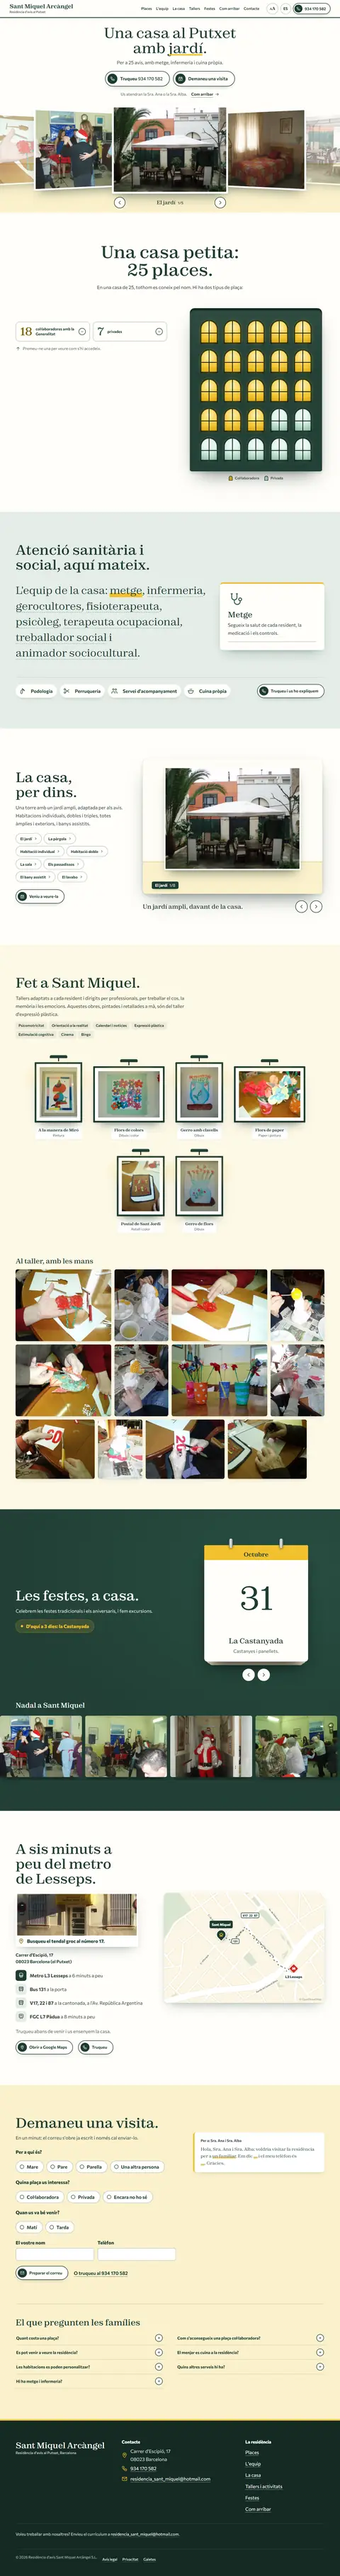
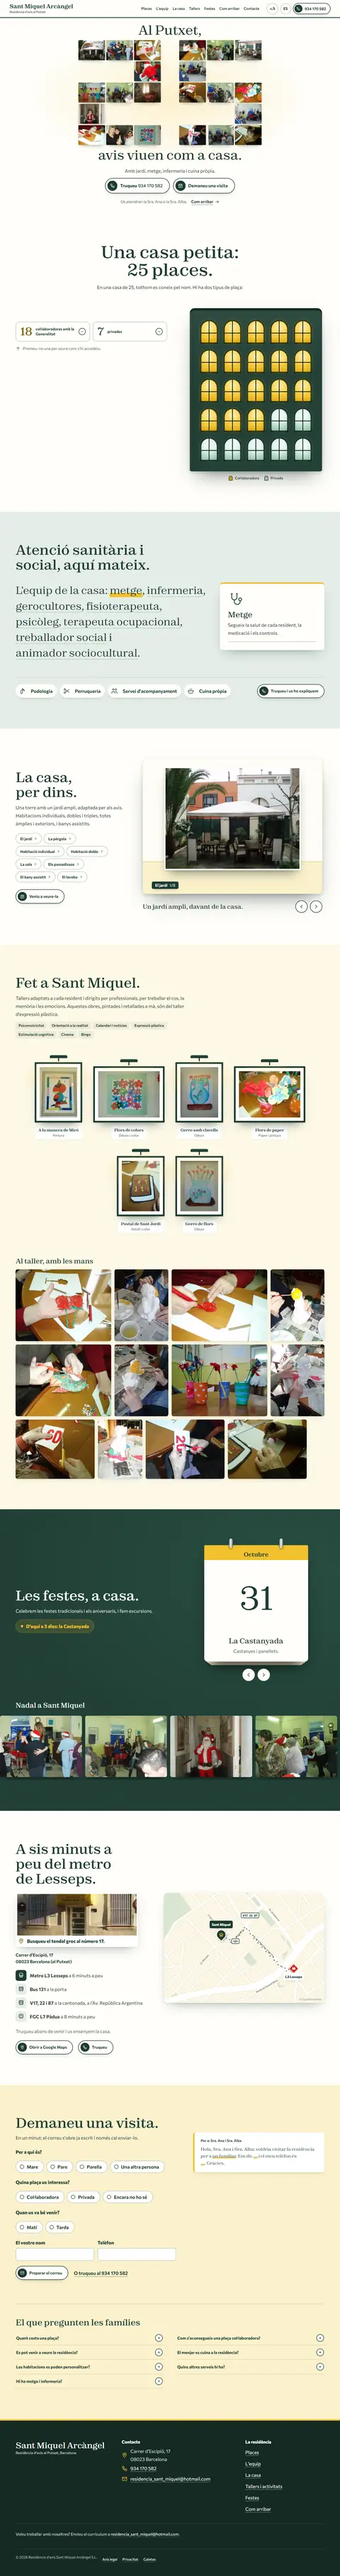
feat: ronda 4: hero «el 25 de la casa», escrito con 22 fotos de su vida
«En el Putxet, 25 mayores viven como en casa.» El 25 se escribe al cargar con
22 fotos reales (jardín, habitación, talleres, Navidad) que aterrizan en el orden
del trazo; luego se dan la vuelta de una en una para enseñar sus cuidados; lupa al
pasar el cursor y visor al pulsar. Sustituye al carrusel.

Changed region(s): [[0.0, 0.0, 1.0, 0.0932]]

diff --git a/prototype/index.html b/prototype/index.html
@@ -57,11 +57,10 @@
 </script>
 <link rel="preload" href="assets/fonts/zodiak.woff2" as="font" type="font/woff2" crossorigin>
 <link rel="preload" href="assets/fonts/commissioner.woff2" as="font" type="font/woff2" crossorigin>
-<link rel="preload" as="image" href="assets/img/jardin-960.webp" imagesrcset="assets/img/jardin-640.webp 640w, assets/img/jardin-960.webp 960w, assets/img/jardin-1280.webp 1280w, assets/img/jardin-1600.webp 1600w" imagesizes="(min-width: 600px) 46vw, 84vw" fetchpriority="high">
-<link rel="stylesheet" href="assets/css/base.css?v=3">
-<link rel="stylesheet" href="assets/css/home.css?v=3">
-<script src="assets/js/base.js?v=3" defer></script>
-<script src="assets/js/home.js?v=3" defer></script>
+<link rel="stylesheet" href="assets/css/base.css?v=4">
+<link rel="stylesheet" href="assets/css/home.css?v=4">
+<script src="assets/js/base.js?v=4" defer></script>
+<script src="assets/js/home.js?v=4" defer></script>
 <script type="application/ld+json">
 {
   "@context": "https://schema.org",
@@ -173,37 +172,46 @@
 
 <main id="contingut">
 
-  <!-- 1 · HERO: el titular con la palabra que cambia y la casa en un carrusel de fotos colgadas en la pared de sus salas -->
+  <!-- 1 · HERO: el «25» de la casa, escrito con 22 fotos de su vida, que se dan la vuelta para enseñar sus cuidados -->
   <section class="hero" id="inici" data-hero aria-labelledby="hero-titol">
-    <div class="hero__text">
-      <h1 class="hero__titol" id="hero-titol">
-        <span class="sr" lang="ca">Residència d'avis Sant Miquel Arcàngel: una casa al Putxet amb jardí, habitacions exteriors, pèrgola, tallers i festes.</span><span class="sr" lang="es">Residencia de mayores Sant Miquel Arcàngel: una casa en el Putxet con jardín, habitaciones exteriores, pérgola, talleres y fiestas.</span>
-        <span class="titol__fix" aria-hidden="true"><span lang="ca">Una casa al Putxet</span><span lang="es">Una casa en el Putxet</span></span>
-        <span class="titol__roda" aria-hidden="true"><span lang="ca">amb</span><span lang="es">con</span> <span class="roda" data-roda><span class="roda__p ara"><span lang="ca">jardí.</span><span lang="es">jardín.</span></span></span></span>
-      </h1>
-      <p class="hero__entrada"><span lang="ca">Per a 25 avis, amb metge, infermeria i cuina pròpia.</span><span lang="es">Para 25 mayores, con médico, enfermería y cocina propia.</span></p>
+    <h1 class="hero__titol" id="hero-titol">
+      <span class="sr" lang="ca">Residència d'avis Sant Miquel Arcàngel: al Putxet, 25 avis viuen com a casa.</span><span class="sr" lang="es">Residencia de mayores Sant Miquel Arcàngel: en el Putxet, 25 mayores viven como en casa.</span>
+      <span class="titol__a" aria-hidden="true"><span lang="ca">Al Putxet,</span><span lang="es">En el Putxet,</span></span>
+      <span class="vint-i-cinc" aria-hidden="true" data-vint-i-cinc>
+        <span class="vint-i-cinc__xifra">
+          <span class="tessela" style="--c:1;--f:1;--o:0;--dx:0.3;--dy:4.9;--rot:-3deg" data-visor-grup="hero"><span class="tessela__zoom"><span class="tessela__gir"><img data-foto src="assets/img/jardin-320.webp" srcset="assets/img/jardin-160.webp 160w, assets/img/jardin-320.webp 320w, assets/img/jardin-640.webp 640w, assets/img/jardin-1600.webp 1600w" sizes="(min-width: 600px) 14vw, 16vw" width="1280" height="960" alt="El jardí de la residència: una pèrgola blanca amb taules i butaques de fusta, una palmera i plantes, davant de la casa" data-alt-es="El jardín de la residencia: una pérgola blanca con mesas y butacas de madera, una palmera y plantas, delante de la casa"><span class="tessela__dors"><svg class="icona"><use href="#i-metge"/></svg><span lang="ca">Metge</span><span lang="es">Médico</span></span></span></span></span>
+          <span class="tessela" style="--c:2;--f:1;--o:1;--dx:-4.6;--dy:2.8;--rot:-37deg" data-visor-grup="hero"><span class="tessela__zoom"><span class="tessela__gir"><img data-foto src="assets/img/navidad-baile-320.webp" srcset="assets/img/navidad-baile-160.webp 160w, assets/img/navidad-baile-320.webp 320w, assets/img/navidad-baile-480.webp 480w, assets/img/navidad-baile-800.webp 800w" sizes="(min-width: 600px) 14vw, 16vw" width="800" height="600" alt="Residents i treballadores ballen a la festa de Nadal, amb barrets de Pare Noel" data-alt-es="Residentes y trabajadoras bailan en la fiesta de Navidad, con gorros de Papá Noel"><span class="tessela__dors"><svg class="icona"><use href="#i-infermeria"/></svg><span lang="ca">Infermeria</span><span lang="es">Enfermería</span></span></span></span></span>
+          <span class="tessela" style="--c:3;--f:1;--o:2;--dx:-3.5;--dy:3.1;--rot:24deg" data-visor-grup="hero"><span class="tessela__zoom"><span class="tessela__gir"><img data-foto src="assets/img/taller-rosas-320.webp" srcset="assets/img/taller-rosas-160.webp 160w, assets/img/taller-rosas-320.webp 320w, assets/img/taller-rosas-480.webp 480w, assets/img/taller-rosas-800.webp 800w" sizes="(min-width: 600px) 14vw, 16vw" width="800" height="600" alt="Unes mans sostenen dues roses de paper vermelles acabades de pintar" data-alt-es="Unas manos sostienen dos rosas de papel rojas recién pintadas"><span class="tessela__dors"><svg class="icona"><use href="#i-to"/></svg><span lang="ca">Tallers</span><span lang="es">Talleres</span></span></span></span></span>
+          <span class="tessela" style="--c:3;--f:2;--o:3;--dx:4.2;--dy:2.8;--rot:30deg" data-visor-grup="hero"><span class="tessela__zoom"><span class="tessela__gir"><img data-foto src="assets/img/nadal-regal-320.webp" srcset="assets/img/nadal-regal-160.webp 160w, assets/img/nadal-regal-320.webp 320w, assets/img/nadal-regal-480.webp 480w, assets/img/nadal-regal-800.webp 800w" sizes="(min-width: 600px) 14vw, 16vw" width="800" height="600" alt="El Pare Noel dona un regal a una resident" data-alt-es="Papá Noel da un regalo a una residente"><span class="tessela__dors"><svg class="icona"><use href="#i-cuina"/></svg><span lang="ca">Cuina pròpia</span><span lang="es">Cocina propia</span></span></span></span></span>
+          <span class="tessela" style="--c:3;--f:3;--o:4;--dx:-6.1;--dy:-2.9;--rot:28deg" data-visor-grup="hero"><span class="tessela__zoom"><span class="tessela__gir"><img data-foto src="assets/img/habitacion-individual-320.webp" srcset="assets/img/habitacion-individual-160.webp 160w, assets/img/habitacion-individual-320.webp 320w, assets/img/habitacion-individual-640.webp 640w, assets/img/habitacion-individual-1280.webp 1280w" sizes="(min-width: 600px) 14vw, 16vw" width="1280" height="960" alt="Una habitació individual amb llit, prestatgeria i finestra amb cortines" data-alt-es="Una habitación individual con cama, estantería y ventana con cortinas"><span class="tessela__dors"><svg class="icona"><use href="#i-fisio"/></svg><span lang="ca">Fisioteràpia</span><span lang="es">Fisioterapia</span></span></span></span></span>
+          <span class="tessela" style="--c:2;--f:3;--o:5;--dx:0.8;--dy:-3.3;--rot:-25deg" data-visor-grup="hero"><span class="tessela__zoom"><span class="tessela__gir"><img data-foto src="assets/img/nadal-cantants-320.webp" srcset="assets/img/nadal-cantants-160.webp 160w, assets/img/nadal-cantants-320.webp 320w, assets/img/nadal-cantants-480.webp 480w, assets/img/nadal-cantants-800.webp 800w" sizes="(min-width: 600px) 14vw, 16vw" width="800" height="600" alt="Una cantant i un músic actuen a la sala per Nadal, davant dels residents" data-alt-es="Una cantante y un músico actúan en la sala por Navidad, delante de los residentes"><span class="tessela__dors"><svg class="icona"><use href="#i-animador"/></svg><span lang="ca">Música</span><span lang="es">Música</span></span></span></span></span>
+          <span class="tessela" style="--c:1;--f:3;--o:6;--dx:5.4;--dy:-3.3;--rot:-30deg" data-visor-grup="hero"><span class="tessela__zoom"><span class="tessela__gir"><img data-foto src="assets/img/taller-flors-gots-320.webp" srcset="assets/img/taller-flors-gots-160.webp 160w, assets/img/taller-flors-gots-320.webp 320w, assets/img/taller-flors-gots-480.webp 480w, assets/img/taller-flors-gots-800.webp 800w" sizes="(min-width: 600px) 14vw, 16vw" width="800" height="600" alt="Flors de paper en gots pintats de colors, sobre una taula" data-alt-es="Flores de papel en vasos pintados de colores, sobre una mesa"><span class="tessela__dors"><svg class="icona"><use href="#i-tisores"/></svg><span lang="ca">Perruqueria</span><span lang="es">Peluquería</span></span></span></span></span>
+          <span class="tessela" style="--c:1;--f:4;--o:7;--dx:0.1;--dy:4.1;--rot:36deg" data-visor-grup="hero"><span class="tessela__zoom"><span class="tessela__gir"><img data-foto src="assets/img/nadal-pare-noel-320.webp" srcset="assets/img/nadal-pare-noel-160.webp 160w, assets/img/nadal-pare-noel-320.webp 320w, assets/img/nadal-pare-noel-480.webp 480w, assets/img/nadal-pare-noel-800.webp 800w" sizes="(min-width: 600px) 14vw, 16vw" width="800" height="600" alt="El Pare Noel arriba pel passadís amb el sac de regals" data-alt-es="Papá Noel llega por el pasillo con el saco de regalos"><span class="tessela__dors"><svg class="icona"><use href="#i-psico"/></svg><span lang="ca">Psicòleg</span><span lang="es">Psicólogo</span></span></span></span></span>
+          <span class="tessela" style="--c:1;--f:5;--o:8;--dx:-5.0;--dy:4.5;--rot:3deg" data-visor-grup="hero"><span class="tessela__zoom"><span class="tessela__gir"><img data-foto src="assets/img/taller-pintando-rosa-320.webp" srcset="assets/img/taller-pintando-rosa-160.webp 160w, assets/img/taller-pintando-rosa-320.webp 320w, assets/img/taller-pintando-rosa-480.webp 480w, assets/img/taller-pintando-rosa-800.webp 800w" sizes="(min-width: 600px) 14vw, 16vw" width="800" height="600" alt="Una mà pinta de vermell una rosa de paper amb un retolador" data-alt-es="Una mano pinta de rojo una rosa de papel con un rotulador"><span class="tessela__dors"><svg class="icona"><use href="#i-peu"/></svg><span lang="ca">Podologia</span><span lang="es">Podología</span></span></span></span></span>
+          <span class="tessela" style="--c:2;--f:5;--o:9;--dx:-6.8;--dy:3.9;--rot:5deg" data-visor-grup="hero"><span class="tessela__zoom"><span class="tessela__gir"><img data-foto src="assets/img/nadal-dones-320.webp" srcset="assets/img/nadal-dones-160.webp 160w, assets/img/nadal-dones-320.webp 320w, assets/img/nadal-dones-480.webp 480w, assets/img/nadal-dones-800.webp 800w" sizes="(min-width: 600px) 14vw, 16vw" width="800" height="600" alt="Tres dones somrients a la festa de Nadal, una amb barret de Pare Noel" data-alt-es="Tres mujeres sonrientes en la fiesta de Navidad, una con gorro de Papá Noel"><span class="tessela__dors"><svg class="icona"><use href="#i-acompanya"/></svg><span lang="ca">Acompanyament</span><span lang="es">Acompañamiento</span></span></span></span></span>
+          <span class="tessela" style="--c:3;--f:5;--o:10;--dx:-6.3;--dy:3.4;--rot:-40deg" data-visor-grup="hero"><span class="tessela__zoom"><span class="tessela__gir"><img data-foto src="assets/img/obra-flores-colores-320.webp" srcset="assets/img/obra-flores-colores-160.webp 160w, assets/img/obra-flores-colores-320.webp 320w, assets/img/obra-flores-colores-480.webp 480w, assets/img/obra-flores-colores-800.webp 800w" sizes="(min-width: 600px) 14vw, 16vw" width="800" height="600" alt="Làmina de flors de molts colors pintades sobre fons verd" data-alt-es="Lámina de flores de muchos colores pintadas sobre fondo verde"><span class="tessela__dors"><svg class="icona"><use href="#i-gerocultora"/></svg><span lang="ca">Gerocultores</span><span lang="es">Gerocultoras</span></span></span></span></span>
+          <span class="tessela" style="--c:7;--f:1;--o:11;--dx:5.1;--dy:-2.8;--rot:-13deg" data-visor-grup="hero"><span class="tessela__zoom"><span class="tessela__gir"><img data-foto src="assets/img/pergola-320.webp" srcset="assets/img/pergola-160.webp 160w, assets/img/pergola-320.webp 320w, assets/img/pergola-640.webp 640w, assets/img/pergola-1280.webp 1280w" sizes="(min-width: 600px) 14vw, 16vw" width="1280" height="960" alt="La pèrgola del jardí, amb butaques de fusta amb coixins, taules i plantes en testos" data-alt-es="La pérgola del jardín, con butacas de madera con cojines, mesas y plantas en macetas"><span class="tessela__dors"><svg class="icona"><use href="#i-social"/></svg><span lang="ca">Treball social</span><span lang="es">Trabajo social</span></span></span></span></span>
+          <span class="tessela" style="--c:6;--f:1;--o:12;--dx:6.4;--dy:2.6;--rot:-32deg" data-visor-grup="hero"><span class="tessela__zoom"><span class="tessela__gir"><img data-foto src="assets/img/nadal-ball-sala-320.webp" srcset="assets/img/nadal-ball-sala-160.webp 160w, assets/img/nadal-ball-sala-320.webp 320w, assets/img/nadal-ball-sala-480.webp 480w, assets/img/nadal-ball-sala-800.webp 800w" sizes="(min-width: 600px) 14vw, 16vw" width="800" height="600" alt="Residents i famílies ballen a la sala per Nadal" data-alt-es="Residentes y familias bailan en la sala por Navidad"><span class="tessela__dors"><svg class="icona"><use href="#i-cuina"/></svg><span lang="ca">Cuina pròpia</span><span lang="es">Cocina propia</span></span></span></span></span>
+          <span class="tessela" style="--c:5;--f:1;--o:13;--dx:4.0;--dy:-4.4;--rot:31deg" data-visor-grup="hero"><span class="tessela__zoom"><span class="tessela__gir"><img data-foto src="assets/img/taller-retallant-rosa-320.webp" srcset="assets/img/taller-retallant-rosa-160.webp 160w, assets/img/taller-retallant-rosa-320.webp 320w, assets/img/taller-retallant-rosa-480.webp 480w, assets/img/taller-retallant-rosa-800.webp 800w" sizes="(min-width: 600px) 14vw, 16vw" width="800" height="600" alt="Unes mans retallen una rosa de paper pintada de colors" data-alt-es="Unas manos recortan una rosa de papel pintada de colores"><span class="tessela__dors"><svg class="icona"><use href="#i-metge"/></svg><span lang="ca">Metge</span><span lang="es">Médico</span></span></span></span></span>
+          <span class="tessela" style="--c:5;--f:2;--o:14;--dx:0.5;--dy:-3.1;--rot:-1deg" data-visor-grup="hero"><span class="tessela__zoom"><span class="tessela__gir"><img data-foto src="assets/img/navidad-concierto-320.webp" srcset="assets/img/navidad-concierto-160.webp 160w, assets/img/navidad-concierto-320.webp 320w, assets/img/navidad-concierto-480.webp 480w, assets/img/navidad-concierto-800.webp 800w" sizes="(min-width: 600px) 14vw, 16vw" width="800" height="600" alt="Concert de Nadal a la sala: una cantant i un músic als teclats davant dels residents" data-alt-es="Concierto de Navidad en la sala: una cantante y un músico a los teclados frente a los residentes"><span class="tessela__dors"><svg class="icona"><use href="#i-animador"/></svg><span lang="ca">Música</span><span lang="es">Música</span></span></span></span></span>
+          <span class="tessela" style="--c:5;--f:3;--o:15;--dx:5.8;--dy:2.9;--rot:-28deg" data-visor-grup="hero"><span class="tessela__zoom"><span class="tessela__gir"><img data-foto src="assets/img/taller-retallant-60-320.webp" srcset="assets/img/taller-retallant-60-160.webp 160w, assets/img/taller-retallant-60-320.webp 320w, assets/img/taller-retallant-60-480.webp 480w, assets/img/taller-retallant-60-800.webp 800w" sizes="(min-width: 600px) 14vw, 16vw" width="800" height="600" alt="Unes mans retallen un 60 vermell de cartolina" data-alt-es="Unas manos recortan un 60 rojo de cartulina"><span class="tessela__dors"><svg class="icona"><use href="#i-to"/></svg><span lang="ca">Tallers</span><span lang="es">Talleres</span></span></span></span></span>
+          <span class="tessela" style="--c:6;--f:3;--o:16;--dx:5.7;--dy:3.3;--rot:-34deg" data-visor-grup="hero"><span class="tessela__zoom"><span class="tessela__gir"><img data-foto src="assets/img/nadal-teclats-320.webp" srcset="assets/img/nadal-teclats-160.webp 160w, assets/img/nadal-teclats-320.webp 320w, assets/img/nadal-teclats-480.webp 480w, assets/img/nadal-teclats-800.webp 800w" sizes="(min-width: 600px) 14vw, 16vw" width="800" height="600" alt="La cantant i el músic als teclats, amb la decoració de Nadal al fons" data-alt-es="La cantante y el músico a los teclados, con la decoración de Navidad al fondo"><span class="tessela__dors"><svg class="icona"><use href="#i-infermeria"/></svg><span lang="ca">Infermeria</span><span lang="es">Enfermería</span></span></span></span></span>
+          <span class="tessela" style="--c:7;--f:3;--o:17;--dx:3.5;--dy:2.5;--rot:-6deg" data-visor-grup="hero"><span class="tessela__zoom"><span class="tessela__gir"><img data-foto src="assets/img/obra-flores-papel-320.webp" srcset="assets/img/obra-flores-papel-160.webp 160w, assets/img/obra-flores-papel-320.webp 320w, assets/img/obra-flores-papel-480.webp 480w, assets/img/obra-flores-papel-800.webp 800w" sizes="(min-width: 600px) 14vw, 16vw" width="800" height="600" alt="Flors de paper de colors en gots decorats sobre una taula" data-alt-es="Flores de papel de colores en vasos decorados sobre una mesa"><span class="tessela__dors"><svg class="icona"><use href="#i-tisores"/></svg><span lang="ca">Perruqueria</span><span lang="es">Peluquería</span></span></span></span></span>
+          <span class="tessela" style="--c:7;--f:4;--o:18;--dx:-0.4;--dy:-4.3;--rot:-1deg" data-visor-grup="hero"><span class="tessela__zoom"><span class="tessela__gir"><img data-foto src="assets/img/nadal-concert-sala-320.webp" srcset="assets/img/nadal-concert-sala-160.webp 160w, assets/img/nadal-concert-sala-320.webp 320w, assets/img/nadal-concert-sala-480.webp 480w, assets/img/nadal-concert-sala-800.webp 800w" sizes="(min-width: 600px) 14vw, 16vw" width="800" height="600" alt="Els residents escolten el concert de Nadal a la sala" data-alt-es="Los residentes escuchan el concierto de Navidad en la sala"><span class="tessela__dors"><svg class="icona"><use href="#i-fisio"/></svg><span lang="ca">Fisioteràpia</span><span lang="es">Fisioterapia</span></span></span></span></span>
+          <span class="tessela" style="--c:7;--f:5;--o:19;--dx:-3.4;--dy:2.6;--rot:32deg" data-visor-grup="hero"><span class="tessela__zoom"><span class="tessela__gir"><img data-foto src="assets/img/taller-enganxant-320.webp" srcset="assets/img/taller-enganxant-160.webp 160w, assets/img/taller-enganxant-320.webp 320w, assets/img/taller-enganxant-480.webp 480w, assets/img/taller-enganxant-800.webp 800w" sizes="(min-width: 600px) 14vw, 16vw" width="800" height="600" alt="Unes mans enganxen paper amb una barra de cola, al costat d'un quadre pintat" data-alt-es="Unas manos pegan papel con una barra de pegamento, junto a un cuadro pintado"><span class="tessela__dors"><svg class="icona"><use href="#i-acompanya"/></svg><span lang="ca">Acompanyament</span><span lang="es">Acompañamiento</span></span></span></span></span>
+          <span class="tessela" style="--c:6;--f:5;--o:20;--dx:0.4;--dy:-3.5;--rot:35deg" data-visor-grup="hero"><span class="tessela__zoom"><span class="tessela__gir"><img data-foto src="assets/img/nadal-ball-musica-320.webp" srcset="assets/img/nadal-ball-musica-160.webp 160w, assets/img/nadal-ball-musica-320.webp 320w, assets/img/nadal-ball-musica-480.webp 480w, assets/img/nadal-ball-musica-800.webp 800w" sizes="(min-width: 600px) 14vw, 16vw" width="800" height="600" alt="Una noia amb barret de Pare Noel balla amb una resident" data-alt-es="Una chica con gorro de Papá Noel baila con una residente"><span class="tessela__dors"><svg class="icona"><use href="#i-gerocultora"/></svg><span lang="ca">Gerocultores</span><span lang="es">Gerocultoras</span></span></span></span></span>
+          <span class="tessela" style="--c:5;--f:5;--o:21;--dx:4.4;--dy:-3.0;--rot:-8deg" data-visor-grup="hero"><span class="tessela__zoom"><span class="tessela__gir"><img data-foto src="assets/img/taller-retallant-20-320.webp" srcset="assets/img/taller-retallant-20-160.webp 160w, assets/img/taller-retallant-20-320.webp 320w, assets/img/taller-retallant-20-480.webp 480w, assets/img/taller-retallant-20-800.webp 800w" sizes="(min-width: 600px) 14vw, 16vw" width="800" height="600" alt="Retallant un 20 vermell amb unes tisores" data-alt-es="Recortando un 20 rojo con unas tijeras"><span class="tessela__dors"><svg class="icona"><use href="#i-peu"/></svg><span lang="ca">Podologia</span><span lang="es">Podología</span></span></span></span></span>
+        </span>
+      </span>
+      <span class="titol__b" aria-hidden="true"><span lang="ca">avis viuen com a casa.</span><span lang="es">mayores viven como en casa.</span></span>
+    </h1>
+    <div class="hero__peu">
+      <p class="hero__entrada"><span lang="ca">Amb jardí, metge, infermeria i cuina pròpia.</span><span lang="es">Con jardín, médico, enfermería y cocina propia.</span></p>
       <div class="hero__accions">
         <a class="boton boton--ico boton--crida" href="tel:+34934170582" aria-label="Truqueu al 934 170 582" data-aria-es="Llame al 934 170 582"><span class="boton__ico gest-truca"><svg class="icona" aria-hidden="true"><use href="#i-tel"/></svg></span><span class="boton__text"><strong lang="ca">Truqueu</strong><strong lang="es">Llame</strong> <span class="num">934&nbsp;170&nbsp;582</span></span></a>
         <a class="boton boton--ico" href="#visita"><span class="boton__ico gest-salta"><svg class="icona" aria-hidden="true"><use href="#i-visita"/></svg></span><span class="boton__text"><span lang="ca">Demaneu una visita</span><span lang="es">Pida una visita</span></span></a>
       </div>
       <p class="hero__qui"><span lang="ca">Us atendran la Sra. Ana o la Sra. Alba.</span><span lang="es">Le atenderán la Sra. Ana o la Sra. Alba.</span> <a class="enllac" href="#arribar"><span lang="ca">Com arribar</span><span lang="es">Cómo llegar</span><svg class="icona" aria-hidden="true"><use href="#i-fletxa"/></svg></a></p>
-    </div>
-
-    <div class="carrusel" data-carrusel data-carril data-bucle>
-      <div class="carrusel__escena" data-carrusel-escena>
-        <ul class="carrusel__cartes">
-          <li class="carta" data-carta="0"><figure class="carta__foto"><img data-foto src="assets/img/jardin-960.webp" srcset="assets/img/jardin-640.webp 640w, assets/img/jardin-960.webp 960w, assets/img/jardin-1280.webp 1280w, assets/img/jardin-1600.webp 1600w" sizes="(min-width: 600px) 46vw, 84vw" width="1280" height="960" alt="El jardí de la residència: una pèrgola blanca amb taules i butaques de fusta, una palmera i plantes, davant de la casa" data-alt-es="El jardín de la residencia: una pérgola blanca con mesas y butacas de madera, una palmera y plantas, delante de la casa" fetchpriority="high"></figure></li>
-          <li class="carta" data-carta="1"><figure class="carta__foto"><img data-foto src="assets/img/habitacion-individual-960.webp" srcset="assets/img/habitacion-individual-640.webp 640w, assets/img/habitacion-individual-960.webp 960w, assets/img/habitacion-individual-1280.webp 1280w" sizes="(min-width: 600px) 46vw, 84vw" width="1280" height="960" decoding="async" alt="Una habitació individual amb llit, prestatgeria i finestra amb cortines" data-alt-es="Una habitación individual con cama, estantería y ventana con cortinas"></figure></li>
-          <li class="carta" data-carta="2"><figure class="carta__foto"><img data-foto src="assets/img/pergola-960.webp" srcset="assets/img/pergola-640.webp 640w, assets/img/pergola-960.webp 960w, assets/img/pergola-1280.webp 1280w" sizes="(min-width: 600px) 46vw, 84vw" width="1280" height="960" decoding="async" alt="La pèrgola del jardí, amb butaques de fusta amb coixins, taules i plantes en testos" data-alt-es="La pérgola del jardín, con butacas de madera con cojines, mesas y plantas en macetas"></figure></li>
-          <li class="carta" data-carta="3"><figure class="carta__foto"><img data-foto src="assets/img/taller-rosas-800.webp" srcset="assets/img/taller-rosas-480.webp 480w, assets/img/taller-rosas-800.webp 800w" sizes="(min-width: 600px) 46vw, 84vw" width="800" height="600" decoding="async" alt="Unes mans sostenen dues roses de paper vermelles acabades de pintar" data-alt-es="Unas manos sostienen dos rosas de papel rojas recién pintadas"></figure></li>
-          <li class="carta" data-carta="4"><figure class="carta__foto"><img data-foto src="assets/img/navidad-baile-800.webp" srcset="assets/img/navidad-baile-480.webp 480w, assets/img/navidad-baile-800.webp 800w" sizes="(min-width: 600px) 46vw, 84vw" width="800" height="600" decoding="async" alt="Residents i treballadores ballen a la festa de Nadal, amb barrets de Pare Noel" data-alt-es="Residentes y trabajadoras bailan en la fiesta de Navidad, con gorros de Papá Noel"></figure></li>
-        </ul>
-      </div>
-      <div class="carrusel__peu">
-        <button type="button" class="rodo" data-carrusel-ant><svg class="icona" data-dir="esq" aria-hidden="true"><use href="#i-esq"/></svg><span class="sr"><span lang="ca">Foto anterior</span><span lang="es">Foto anterior</span></span></button>
-        <p class="carrusel__nom" data-carrusel-nom aria-live="polite"><span lang="ca">El jardí</span><span lang="es">El jardín</span> <small>1/5</small></p>
-        <button type="button" class="rodo" data-carrusel-seg><svg class="icona" data-dir="dre" aria-hidden="true"><use href="#i-dre"/></svg><span class="sr"><span lang="ca">Foto següent</span><span lang="es">Foto siguiente</span></span></button>
-      </div>
     </div>
   </section>
 

diff --git a/prototype/assets/css/home.css b/prototype/assets/css/home.css
@@ -11,76 +11,70 @@
 .anima [data-revela].visto:not(h2) { opacity: 1; transform: none; }
 
 /* =====================================================================
-   1 · HERO: titular con la palabra que cambia; debajo, la casa en un carrusel
-   de fotos colgadas en la pared de dos tonos de sus salas (zócalo amarillo)
+   1 · HERO: el «25» de la casa, escrito con 22 fotos de su vida.
+   Al cargar, las fotos aterrizan en el orden del trazo, como si alguien
+   escribiera el número; luego, de vez en cuando, una se da la vuelta y
+   enseña uno de sus cuidados. Bajo el cursor, la foto crece como con lupa.
    ===================================================================== */
-.hero { position: relative; display: flex; flex-direction: column; min-height: 100svh; padding-top: var(--cab-alt); overflow: hidden; background: var(--blanc); }
+.hero { position: relative; display: flex; flex-direction: column; min-height: 100svh; overflow: hidden;
+  padding: calc(var(--cab-alt) + clamp(10px, 2.4svh, 34px)) var(--canal) clamp(14px, 2.6svh, 34px);
+  background: radial-gradient(58% 46% at 50% 46%, rgba(242, 193, 46, .22), rgba(242, 193, 46, 0) 72%), var(--blanc); }
 @media (max-width: 899px) { .hero { min-height: calc(100svh - 60px - env(safe-area-inset-bottom)); } }
 
-.hero__text { flex: none; display: grid; justify-items: center; text-align: center; padding: clamp(14px, 3.4svh, 46px) var(--canal) 0; }
-.hero__titol { font-weight: 450; font-size: clamp(1.7rem, min(7.2vw, 1.15rem + 3vw, 6.8svh), 4.8rem); line-height: 1.06; text-wrap: balance; }
-.titol__fix, .titol__roda { display: block; }
-.titol__roda { white-space: nowrap; }
-.roda { position: relative; display: inline-block; }
-.roda__p { display: inline-block; white-space: pre; }
-.roda__p.surt { position: absolute; left: 0; top: 0; }
-.roda__l { display: inline-block; }
-.roda::after { content: ""; position: absolute; left: .02em; right: .3em; bottom: .02em; height: .1em; border-radius: .05em; background: var(--groc); transform-origin: 0 50%; }
-.anima .roda__p.entra .roda__l { animation: lletra-entra .8s var(--muelle) both; animation-delay: calc(var(--k) * 30ms); }
-.anima .roda__p.surt .roda__l { animation: lletra-surt .45s var(--sale) both; animation-delay: calc(var(--k) * 15ms); }
-@keyframes lletra-entra { from { opacity: 0; transform: translateY(.55em) rotate(5deg); } }
-@keyframes lletra-surt { to { opacity: 0; transform: translateY(-.45em); } }
-.anima .roda.canvi::after { animation: subratlla .9s var(--calma) .25s both; }
-@keyframes subratlla { from { transform: scaleX(0); } }
+.hero__titol { flex: 1 1 auto; min-height: 0; display: flex; flex-direction: column; align-items: center; text-align: center; gap: clamp(6px, 1.5svh, 20px);
+  font-weight: 450; font-size: clamp(1.65rem, min(6vw, 1.05rem + 2.7vw, 6.2svh), 4.3rem); line-height: 1.06; }
+.titol__a, .titol__b { display: block; flex: none; text-wrap: balance; }
 
-.hero__entrada { margin-top: clamp(6px, 1.2svh, 14px); max-width: 36em; }
-.hero__accions { display: flex; flex-wrap: wrap; justify-content: center; gap: 12px 14px; margin-top: clamp(12px, 2.2svh, 26px); }
+/* El número: dos cifras de 3×5 casillas apaisadas (4:3), como las fotos */
+.vint-i-cinc { flex: 1 1 0; min-height: 110px; width: 100%; container-type: size; display: grid; place-items: center; }
+.vint-i-cinc__xifra { --g: clamp(3px, .42cqw, 6px); --cel: min((100cqw - 6 * var(--g)) / 6.6, (100cqh - 4 * var(--g)) / 3.75, 200px);
+  display: grid; grid-template-columns: repeat(3, var(--cel)) calc(var(--cel) * .6) repeat(3, var(--cel)); grid-template-rows: repeat(5, calc(var(--cel) * .75)); gap: var(--g); }
+.tessela { grid-column: var(--c); grid-row: var(--f); position: relative; perspective: 700px; cursor: zoom-in; }
+.tessela:hover { z-index: 5; }
+/* Lupa: crece el envoltorio de dentro; la casilla que recibe el cursor no se mueve */
+.tessela__zoom { position: absolute; inset: 0; transition: transform .5s var(--muelle); }
+.tessela:hover .tessela__zoom { transform: scale(1.85); }
+.tessela__gir { position: absolute; inset: 0; transform-style: preserve-3d; transition: transform .9s var(--calma); }
+.tessela.girada .tessela__gir { transform: rotateY(180deg); }
+.tessela:hover .tessela__gir { transform: none; }
+.tessela img, .tessela__dors { position: absolute; inset: 0; width: 100%; height: 100%; border-radius: 3px; backface-visibility: hidden; -webkit-backface-visibility: hidden; }
+.tessela img { box-shadow: 0 1px 2px rgba(29, 59, 49, .18), 0 10px 18px -12px rgba(20, 42, 35, .55); }
+.tessela:hover img { box-shadow: 0 0 0 3px var(--groc), 0 22px 40px -16px rgba(20, 42, 35, .7); }
+/* El reverso: uno de sus cuidados, en amarillo */
+.tessela__dors { transform: rotateY(180deg); display: grid; place-content: center; justify-items: center; gap: .4em; padding: 4px; background: var(--groc); color: var(--verd);
+  font: 700 clamp(.58rem, 1.25cqw, .95rem) / 1.15 var(--f-text); text-align: center; box-shadow: 0 10px 18px -12px rgba(20, 42, 35, .55); }
+.tessela__dors .icona { width: 2.4em; height: 2.4em; stroke-width: 1.6; }
+@media (max-width: 599px) { .tessela__dors > span { display: none; } .tessela__dors .icona { width: 1.7em; height: 1.7em; } }
+
+.hero__peu { flex: none; display: grid; justify-items: center; text-align: center; gap: clamp(8px, 1.5svh, 16px); margin-top: clamp(10px, 2.2svh, 26px); }
+.hero__entrada { max-width: 36em; }
+.hero__accions { display: flex; flex-wrap: wrap; justify-content: center; gap: 12px 14px; }
 .hero__accions .boton { min-height: 58px; font-size: clamp(1.05rem, 1rem + .25vw, 1.18rem); }
 .hero__accions .boton--ico { padding-right: 1.5em; }
 .boton .num { font-weight: 500; }
-.hero__qui { margin-top: clamp(6px, 1.2svh, 14px); display: flex; flex-wrap: wrap; justify-content: center; align-items: center; gap: 0 18px; font-size: var(--t-petit); color: var(--text-suau); }
+.hero__qui { display: flex; flex-wrap: wrap; justify-content: center; align-items: center; gap: 0 18px; font-size: var(--t-petit); color: var(--text-suau); }
 
-.anima .hero__text > * { animation: rotul .9s var(--sale) both; }
-.anima .hero__titol { animation-delay: .15s; }
-.anima .hero__entrada { animation-delay: .3s; }
-.anima .hero__accions { animation-delay: .42s; }
-.anima .hero__qui { animation-delay: .54s; }
+/* Al abrir: la primera línea, luego el número se escribe foto a foto, y la segunda línea */
+.anima .titol__a { animation: rotul .9s var(--sale) .1s both; }
+.anima .tessela { animation: aterra 1s var(--muelle) both; animation-delay: calc(.35s + var(--o) * 48ms); }
+@keyframes aterra { from { opacity: 0; transform: translate(calc(var(--dx) * var(--cel)), calc(var(--dy) * var(--cel))) rotate(var(--rot)) scale(.35); } }
+.anima .titol__b { animation: rotul .9s var(--sale) 1.15s both; }
+.anima .hero__peu > * { animation: rotul .9s var(--sale) both; }
+.anima .hero__entrada { animation-delay: .6s; }
+.anima .hero__accions { animation-delay: .7s; }
+.anima .hero__qui { animation-delay: .8s; }
 @keyframes rotul { from { opacity: 0; transform: translateY(16px); } }
 
-/* El carrusel: las fotos, enteras y a su proporción, como cuadros en la pared; la del centro, de frente */
-.carrusel { flex: 1 1 0; min-height: 150px; display: flex; flex-direction: column; margin-top: clamp(10px, 2.2svh, 30px); }
-.carrusel__escena { position: relative; flex: 1 1 0; min-height: 0; container-type: size; perspective: 1500px; cursor: grab;
-  background: linear-gradient(to bottom, rgba(255, 254, 250, 0) 0 66%, #E4D184 66% calc(66% + 4px), var(--groc-paret) calc(66% + 4px)); }
-/* La capa del grupo no recibe el cursor: en 3D quedaría delante de las fotos de los lados */
-.carrusel__cartes { position: absolute; inset: 0; transform-style: preserve-3d; pointer-events: none; }
-.carta { pointer-events: auto; }
-.carta { --wc: min(46cqw, 97cqh * 4 / 3, 940px); --pas: .8;
-  position: absolute; left: 50%; top: 50%; width: var(--wc); margin: calc(var(--wc) * -.375) 0 0 calc(var(--wc) / -2);
-  transform: translateX(calc(var(--p, 0) * var(--wc) * var(--pas))) translateZ(calc(var(--ap, 0) * var(--wc) * -.42)) rotateY(var(--gir, 0deg));
-  opacity: var(--op, 1); z-index: calc(10 - var(--ap, 0)); transition: transform 1.05s var(--calma), opacity .6s ease; }
-.carta.salta { transition: none; opacity: 0; }
-.carta:not(.centre) { cursor: pointer; }
-.carta__foto { margin: 0; padding: clamp(5px, .55cqw, 9px); background: #fff; border-radius: 4px; overflow: hidden;
-  box-shadow: 0 2px 4px rgba(29, 59, 49, .12), 0 30px 50px -26px rgba(20, 42, 35, .6); }
-.carta__foto img { width: 100%; border-radius: 2px; transition: transform 1.1s var(--sale); }
-.carta:hover .carta__foto img { transform: scale(1.05); }
-.anima .carta__foto { animation: penja 1.1s var(--calma) both; animation-delay: calc(.35s + var(--ap, 0) * .12s); }
-@keyframes penja { from { opacity: 0; transform: translateY(40px) scale(.94); } }
-.carrusel__peu { flex: none; display: flex; align-items: center; justify-content: center; gap: clamp(12px, 2vw, 26px); padding: clamp(6px, 1.4svh, 16px) var(--canal) clamp(10px, 2svh, 22px); background: var(--groc-paret); }
-.carrusel__nom { min-width: min(15em, 52vw); text-align: center; font-family: var(--f-rotul); font-weight: 500; color: var(--verd); font-size: clamp(1.05rem, .95rem + .45vw, 1.4rem); line-height: 1.2; }
-.carrusel__nom small { font-family: var(--f-text); font-size: .72em; font-weight: 600; color: var(--text-suau); margin-left: .4em; }
-.carrusel__nom.canvi > * { animation: rotul .5s var(--sale); }
-.carrusel__peu .rodo { width: 48px; height: 48px; }
-
-@media (max-width: 899px) { .carta { --wc: min(64cqw, 97cqh * 4 / 3); --pas: .86; } }
 @media (max-width: 599px) {
-  .carta { --wc: min(90cqw, 97cqh * 4 / 3); --pas: .97; }
-  .hero__accions { flex-wrap: nowrap; gap: 10px; }
+  .hero__accions { flex-wrap: nowrap; gap: 10px; width: 100%; }
   .hero__accions .boton { flex: 1 1 auto; min-height: 54px; padding-inline: .35em .9em; font-size: 1rem; gap: .45em; }
   .hero__accions .boton__ico { width: 2em; height: 2em; }
   .boton--crida .num { display: none; }
   .hero__entrada { font-size: 1.0625rem; line-height: 1.55; }
   .hero__qui .enllac { display: none; }
+  .hero { justify-content: center; }
+  .hero__titol { flex: none; font-size: clamp(1.65rem, 8.8vw, 2.3rem); gap: 12px; }
+  .vint-i-cinc { flex: none; height: calc((100vw - 2 * var(--canal)) / 1.8); }
 }
 @media (max-width: 380px) {
   .hero__accions .boton--crida { flex: none; width: 54px; padding: 0; }
@@ -91,19 +85,15 @@
 @media (max-width: 599px) and (max-height: 640px) { .hero__qui { display: none; } }
 @media (min-width: 600px) and (max-height: 760px) { .hero__qui { display: none; } }
 @media (min-width: 600px) and (max-height: 640px) { .hero__entrada { display: none; } }
-/* Móvil apaisado: el texto a un lado y el carrusel al otro */
+/* Móvil apaisado: solo lo esencial */
 @media (max-height: 500px) and (orientation: landscape) {
-  .hero { flex-direction: row; align-items: stretch; }
-  .hero__text { flex: 1 1 0; align-content: center; padding: 8px 0 8px var(--canal); }
-  .hero__titol { font-size: clamp(1.1rem, 6.6svh, 1.7rem); }
+  .hero__titol { font-size: clamp(1rem, 6.4svh, 1.5rem); gap: 4px; }
   .hero__entrada, .hero__qui { display: none; }
-  .hero__accions { flex-wrap: nowrap; gap: 8px; margin-top: 10px; }
+  .hero__peu { margin-top: 8px; }
+  .hero__accions { flex-wrap: nowrap; gap: 8px; }
   .hero__accions .boton { min-height: 46px; padding-inline: .3em .8em; font-size: .95rem; }
   .hero__accions .boton__ico { width: 1.9em; height: 1.9em; }
   .boton--crida .num { display: none; }
-  .carrusel { flex: 1.1 1 0; margin-top: 0; }
-  .carta { --wc: min(70cqw, 97cqh * 4 / 3); --pas: .9; }
-  .carrusel__peu { padding-block: 4px 8px; }
 }
 
 /* =====================================================================

diff --git a/prototype/assets/js/home.js b/prototype/assets/js/home.js
@@ -1,4 +1,4 @@
-/* Sant Miquel Arcàngel — home (página única): el carrusel de la casa con la palabra que cambia, 25 ventanas,
+/* Sant Miquel Arcàngel — home (página única): el «25» escrito con fotos, 25 ventanas,
    equipo, la casa que gira como un cubo, exposición con luces, galería del taller, la tira de Navidad,
    mapa a pie y la visita que deja el correo escrito. */
 (function () {
@@ -31,89 +31,20 @@
     io.observe(el);
   }
 
-  /* ================= 1 · Hero: el carrusel de la casa y la palabra del titular, que cambian juntos ================= */
+  /* ================= 1 · Hero: el «25» se escribe con fotos y, de vez en cuando, una se da la vuelta ================= */
   (function () {
-    var car = $('[data-carrusel]'); if (!car) return;
-    var escena = $('[data-carrusel-escena]', car), cartes = $$('[data-carta]', car), n = cartes.length, actual = 0;
-    var nom = $('[data-carrusel-nom]', car), roda = $('[data-roda]');
-    var NOMS = [['El jardí', 'El jardín'], ['Una habitació individual', 'Una habitación individual'], ['La pèrgola', 'La pérgola'], ['Al taller', 'En el taller'], ['La festa de Nadal', 'La fiesta de Navidad']];
-    var PARAULES = {
-      ca: ['jardí.', 'habitacions exteriors.', 'pèrgola.', 'tallers.', 'festes.'],
-      es: ['jardín.', 'habitaciones exteriores.', 'pérgola.', 'talleres.', 'fiestas.']
-    };
-    // La palabra del titular, letra a letra, con el subrayado amarillo que se dibuja debajo
-    function paraula(text, classe) {
-      var s = d.createElement('span');
-      s.className = 'roda__p ' + classe;
-      Array.from(text).forEach(function (c, k) {
-        var l = d.createElement('span');
-        l.className = 'roda__l'; l.style.setProperty('--k', k); l.textContent = c;
-        s.appendChild(l);
-      });
-      return s;
-    }
-    function pintaParaula(anima) {
-      if (!roda) return;
-      var vella = $('.roda__p.ara', roda);
-      var nova = paraula(PARAULES[SM.idioma === 'es' ? 'es' : 'ca'][actual], anima ? 'ara entra' : 'ara');
-      if (vella) {
-        vella.classList.remove('ara');
-        if (anima) { vella.classList.add('surt'); setTimeout(function () { if (vella.parentNode) vella.parentNode.removeChild(vella); }, 800); }
-        else vella.parentNode.removeChild(vella);
-      }
-      roda.appendChild(nova);
-      if (anima) reinicia(roda, 'canvi');
-    }
-    function pintaNom(anima) {
-      nom.innerHTML = '';
-      ['ca', 'es'].forEach(function (l, j) { var s = d.createElement('span'); s.lang = l; s.textContent = NOMS[actual][j]; nom.appendChild(s); });
-      var c = d.createElement('small'); c.textContent = (actual + 1) + '/' + n;
-      nom.appendChild(d.createTextNode(' ')); nom.appendChild(c);
-      if (anima && !quieto) reinicia(nom, 'canvi');
-    }
-    // Cada foto, a su sitio: la del centro de frente; las de los lados, giradas hacia ella y más atrás
-    function posa(anima) {
-      var mobil = innerWidth < 600, mig = Math.floor(n / 2);
-      cartes.forEach(function (c, i) {
-        var p = ((i - actual + n + mig) % n) - mig, ap = Math.abs(p);
-        var vell = c.dataset.p === undefined ? p : +c.dataset.p;
-        var salta = anima && Math.abs(p - vell) > 1;      // la que da la vuelta por detrás aparece en su sitio, sin cruzar
-        if (salta) c.classList.add('salta');
-        c.dataset.p = p;
-        c.style.setProperty('--p', p);
-        c.style.setProperty('--ap', ap);
-        c.style.setProperty('--gir', (p === 0 ? 0 : (p > 0 ? -1 : 1) * (ap === 1 ? 26 : 34)) + 'deg');
-        c.style.setProperty('--op', ap === 0 ? 1 : ap === 1 ? .94 : (mobil ? 0 : .5));
-        c.classList.toggle('centre', p === 0);
-        c.setAttribute('aria-hidden', String(p !== 0));
-      });
-      if (anima) { void car.offsetWidth; cartes.forEach(function (c) { c.classList.remove('salta'); }); }
-    }
-    function va(nou) {
-      nou = (nou + n) % n;
-      if (nou === actual) return;
-      actual = nou;
-      posa(!quieto); pintaParaula(!quieto); pintaNom(true);
-    }
-    var r = rellotge(car, 4200, function () { va(actual + 1); });
-    $('[data-carrusel-seg]', car).addEventListener('click', function () { va(actual + 1); r.reinicia(); });
-    $('[data-carrusel-ant]', car).addEventListener('click', function () { va(actual - 1); r.reinicia(); });
-    cartes.forEach(function (c, i) {
-      c.addEventListener('click', function () { if (escena._llisca) return; va(i === actual ? actual + 1 : i); r.reinicia(); });
+    var xifra = $('[data-vint-i-cinc]'); if (!xifra || quieto) return;
+    var tes = $$('.tessela', xifra), girades = [], llest = false;
+    // Hasta que el número no está escrito, ninguna se da la vuelta
+    setTimeout(function () { llest = true; }, 2600);
+    rellotge(xifra, 1400, function () {
+      if (!llest || girades.length >= 3) return;
+      var lliures = tes.filter(function (t) { return !t.classList.contains('girada') && !t.matches(':hover'); });
+      if (!lliures.length) return;
+      var t = lliures[Math.floor(Math.random() * lliures.length)];
+      t.classList.add('girada'); girades.push(t);
+      setTimeout(function () { t.classList.remove('girada'); girades.splice(girades.indexOf(t), 1); }, 2600);
     });
-    escena.addEventListener('pointerenter', function (e) { if (e.pointerType === 'mouse') r.atura(true); });
-    escena.addEventListener('pointerleave', function () { r.atura(false); });
-    // Deslizar con el dedo (o arrastrar con el ratón)
-    var x0 = null;
-    escena.addEventListener('pointerdown', function (e) { x0 = e.clientX; escena._llisca = false; });
-    escena.addEventListener('pointerup', function (e) {
-      if (x0 === null) return;
-      var dx = e.clientX - x0; x0 = null;
-      if (Math.abs(dx) > 40) { escena._llisca = true; va(dx < 0 ? actual + 1 : actual - 1); r.reinicia(); setTimeout(function () { escena._llisca = false; }, 50); }
-    });
-    addEventListener('resize', function () { posa(false); });
-    SM.alCanviarIdioma.push(function () { if (roda) { $$('.roda__p', roda).forEach(function (p) { p.parentNode.removeChild(p); }); } pintaParaula(false); pintaNom(false); });
-    posa(false); pintaParaula(false); pintaNom(false);
   })();
 
   /* ================= 2 · Plazas: ninguna elegida de inicio; la del cursor enciende sus ventanas ================= */
